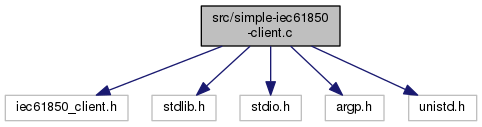
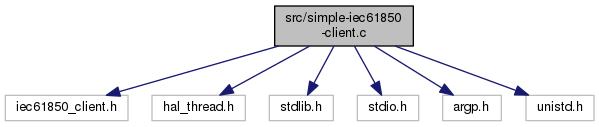
Edit outputs from client and server

diff --git a/simple-iec61850-client/doc/html/simple-iec61850-client_8c.html b/simple-iec61850-client/doc/html/simple-iec61850-client_8c.html
@@ -91,9 +91,10 @@ var searchBox = new SearchBox("searchBox", "search",false,'Search');
 </div><!--header-->
 <div class="contents">
 
-<p>C-File implements a simple IEC 61850 client.  
+<p>Test Class.  
 <a href="#details">More...</a></p>
 <div class="textblock"><code>#include &quot;iec61850_client.h&quot;</code><br />
+<code>#include &quot;hal_thread.h&quot;</code><br />
 <code>#include &lt;stdlib.h&gt;</code><br />
 <code>#include &lt;stdio.h&gt;</code><br />
 <code>#include &quot;argp.h&quot;</code><br />
@@ -132,9 +133,9 @@ Variables</h2></td></tr>
 <tr class="separator:a7c0b25939579bd308b11966fb04288e0"><td class="memSeparator" colspan="2">&#160;</td></tr>
 </table>
 <a name="details" id="details"></a><h2 class="groupheader">Detailed Description</h2>
-<div class="textblock"><p>C-File implements a simple IEC 61850 client. </p>
+<div class="textblock"><p>Test Class. </p>
+<p>More Details to Test Class</p>
 <dl class="section author"><dt>Author</dt><dd>David Mittelstädt </dd></dl>
-<dl class="section date"><dt>Date</dt><dd>12 Aug 2017 This C-File implements a simple IEC 61850 client. The library libIEC61850 is used for implementing the protocol IEC 61850. Argp is used to parse the options and arguments from the command line. </dd></dl>
 <dl class="section see"><dt>See also</dt><dd><a href="https://github.com/dmittelstaedt/siprenz-protocols">https://github.com/dmittelstaedt/siprenz-protocols</a> </dd>
 <dd>
 <a href="http://libiec61850.com/libiec61850/">http://libiec61850.com/libiec61850/</a> </dd></dl>
@@ -166,8 +167,8 @@ Variables</h2></td></tr>
 <p>Main function. </p>
 <p>Details of the function. </p><dl class="params"><dt>Parameters</dt><dd>
   <table class="params">
-    <tr><td class="paramname">Number</td><td>of arguments </td></tr>
-    <tr><td class="paramname">Content</td><td>of the arguments </td></tr>
+    <tr><td class="paramname">argc</td><td>Number of arguments </td></tr>
+    <tr><td class="paramname">argv</td><td>Content of the arguments </td></tr>
   </table>
   </dd>
 </dl>
@@ -214,7 +215,15 @@ Variables</h2></td></tr>
 </div><div class="memdoc">
 
 <p>Function which parses the given options and arguments. </p>
-<p>Details of the function. </p>
+<p>Details of the function. </p><dl class="params"><dt>Parameters</dt><dd>
+  <table class="params">
+    <tr><td class="paramname">Key</td><td></td></tr>
+    <tr><td class="paramname">Value</td><td>of argument </td></tr>
+    <tr><td class="paramname">Struct</td><td></td></tr>
+  </table>
+  </dd>
+</dl>
+<dl class="section return"><dt>Returns</dt><dd>Return code of parsing the arguments </dd></dl>
 
 </div>
 </div>

diff --git a/simple-iec61850-client/doc/html/files.html b/simple-iec61850-client/doc/html/files.html
@@ -86,7 +86,7 @@ var searchBox = new SearchBox("searchBox", "search",false,'Search');
 <div class="textblock">Here is a list of all documented files with brief descriptions:</div><div class="directory">
 <div class="levels">[detail level <span onclick="javascript:toggleLevel(1);">1</span><span onclick="javascript:toggleLevel(2);">2</span>]</div><table class="directory">
 <tr id="row_0_" class="even"><td class="entry"><span style="width:0px;display:inline-block;">&#160;</span><span id="arr_0_" class="arrow" onclick="toggleFolder('0_')">&#9660;</span><span id="img_0_" class="iconfopen" onclick="toggleFolder('0_')">&#160;</span><a class="el" href="dir_68267d1309a1af8e8297ef4c3efbcdba.html" target="_self">src</a></td><td class="desc"></td></tr>
-<tr id="row_0_0_"><td class="entry"><span style="width:32px;display:inline-block;">&#160;</span><span class="icondoc"></span><a class="el" href="simple-iec61850-client_8c.html" target="_self">simple-iec61850-client.c</a></td><td class="desc">C-File implements a simple IEC 61850 client </td></tr>
+<tr id="row_0_0_"><td class="entry"><span style="width:32px;display:inline-block;">&#160;</span><span class="icondoc"></span><a class="el" href="simple-iec61850-client_8c.html" target="_self">simple-iec61850-client.c</a></td><td class="desc">Test Class </td></tr>
 </table>
 </div><!-- directory -->
 </div><!-- contents -->

diff --git a/simple-iec61850-client/doc/html/dir_68267d1309a1af8e8297ef4c3efbcdba.html b/simple-iec61850-client/doc/html/dir_68267d1309a1af8e8297ef4c3efbcdba.html
@@ -91,7 +91,7 @@ var searchBox = new SearchBox("searchBox", "search",false,'Search');
 <tr class="heading"><td colspan="2"><h2 class="groupheader"><a name="files"></a>
 Files</h2></td></tr>
 <tr class="memitem:simple-iec61850-client_8c"><td class="memItemLeft" align="right" valign="top">file &#160;</td><td class="memItemRight" valign="bottom"><a class="el" href="simple-iec61850-client_8c.html">simple-iec61850-client.c</a></td></tr>
-<tr class="memdesc:simple-iec61850-client_8c"><td class="mdescLeft">&#160;</td><td class="mdescRight">C-File implements a simple IEC 61850 client. <br /></td></tr>
+<tr class="memdesc:simple-iec61850-client_8c"><td class="mdescLeft">&#160;</td><td class="mdescRight">Test Class. <br /></td></tr>
 <tr class="separator:"><td class="memSeparator" colspan="2">&#160;</td></tr>
 </table>
 </div><!-- contents -->

diff --git a/simple-iec61850-client/src/simple-iec61850-client.c b/simple-iec61850-client/src/simple-iec61850-client.c
@@ -1,17 +1,13 @@
 /**
+ * Test Class. More Details to Test Class
  * @file simple-iec61850-client.c
  * @author David Mittelstädt
- * @date 12 Aug 2017
- * @brief C-File implements a simple IEC 61850 client.
- *
- * This C-File implements a simple IEC 61850 client. The library libIEC61850
- * is used for implementing the protocol IEC 61850. Argp is used to parse
- * the options and arguments from the command line.
  * @see https://github.com/dmittelstaedt/siprenz-protocols
  * @see http://libiec61850.com/libiec61850/
  */
 
 #include "iec61850_client.h"
+#include "hal_thread.h"
 #include <stdlib.h>
 #include <stdio.h>
 #include "argp.h"
@@ -56,7 +52,8 @@ void runClient() {
      IedConnection_connect(con, &error, host, tcpPort);
 
      if (error == IED_ERROR_OK) {
-          printf("Client started successfully. Client is connected to %s on port %d.\n", host, tcpPort);
+          printf("Client connected successfully to %s on port %d.\n", host, tcpPort);
+          printf("Client starts reading total active power (TotW.mag) from %s.\n", host);
 
           int counter = 0;
 
@@ -65,16 +62,16 @@ void runClient() {
 
                // If an error occured during sending requests
                if (error != IED_ERROR_OK) {
-                    printf("An error occured.\n");
+                    printf("Lost connection to server %s.\n", host);
                     break;
                }
 
                if (value != NULL) {
                     float fval = MmsValue_toFloat(value);
-                    printf("Read power value: %.1f\n", fval);
+                    printf("TotW.mag: %.1f\n", fval);
                     MmsValue_delete(value);
                }
-               sleep(sleepInt);
+               Thread_sleep(sleepInt * 1000);
                counter++;
           }
 
@@ -92,6 +89,10 @@ void runClient() {
 /**
 * Function which parses the given options and arguments.
 * Details of the function.
+* @param Key
+* @param Value of argument
+* @param Struct
+* @return Return code of parsing the arguments
 */
 static int parse_opt (int key, char *arg, struct argp_state *state) {
      int *arg_count = state->input;
@@ -131,8 +132,8 @@ static int parse_opt (int key, char *arg, struct argp_state *state) {
 /**
 * Main function.
 * Details of the function.
-* @param Number of arguments
-* @param Content of the arguments
+* @param argc Number of arguments
+* @param argv Content of the arguments
 * @return Exit status of the application
 */
 int main(int argc, char** argv) {

diff --git a/simple-iec61850-client/doc/latex/simple-iec61850-client_8c.tex b/simple-iec61850-client/doc/latex/simple-iec61850-client_8c.tex
@@ -2,10 +2,11 @@
 \label{simple-iec61850-client_8c}\index{src/simple-\/iec61850-\/client.\+c@{src/simple-\/iec61850-\/client.\+c}}
 
 
-C-\/\+File implements a simple I\+EC 61850 client.  
+Test Class.  
 
 
 {\ttfamily \#include \char`\"{}iec61850\+\_\+client.\+h\char`\"{}}\\*
+{\ttfamily \#include \char`\"{}hal\+\_\+thread.\+h\char`\"{}}\\*
 {\ttfamily \#include $<$stdlib.\+h$>$}\\*
 {\ttfamily \#include $<$stdio.\+h$>$}\\*
 {\ttfamily \#include \char`\"{}argp.\+h\char`\"{}}\\*
@@ -40,14 +41,13 @@ int \hyperlink{simple-iec61850-client_8c_a7c0b25939579bd308b11966fb04288e0}{slee
 
 
 \subsection{Detailed Description}
-C-\/\+File implements a simple I\+EC 61850 client. 
+Test Class. 
+
+More Details to Test Class
 
 \begin{DoxyAuthor}{Author}
 David Mittelstädt 
 \end{DoxyAuthor}
-\begin{DoxyDate}{Date}
-12 Aug 2017 This C-\/\+File implements a simple I\+EC 61850 client. The library lib\+I\+E\+C61850 is used for implementing the protocol I\+EC 61850. Argp is used to parse the options and arguments from the command line. 
-\end{DoxyDate}
 \begin{DoxySeeAlso}{See also}
 \href{https://github.com/dmittelstaedt/siprenz-protocols}{\tt https\+://github.\+com/dmittelstaedt/siprenz-\/protocols} 
 
@@ -70,9 +70,9 @@ Main function.
 
 Details of the function. 
 \begin{DoxyParams}{Parameters}
-{\em Number} & of arguments \\
+{\em argc} & Number of arguments \\
 \hline
-{\em Content} & of the arguments \\
+{\em argv} & Content of the arguments \\
 \hline
 \end{DoxyParams}
 \begin{DoxyReturn}{Returns}
@@ -91,7 +91,19 @@ Exit status of the application
 
 Function which parses the given options and arguments. 
 
-Details of the function. \index{simple-\/iec61850-\/client.\+c@{simple-\/iec61850-\/client.\+c}!run\+Client@{run\+Client}}
+Details of the function. 
+\begin{DoxyParams}{Parameters}
+{\em Key} & \\
+\hline
+{\em Value} & of argument \\
+\hline
+{\em Struct} & \\
+\hline
+\end{DoxyParams}
+\begin{DoxyReturn}{Returns}
+Return code of parsing the arguments 
+\end{DoxyReturn}
+\index{simple-\/iec61850-\/client.\+c@{simple-\/iec61850-\/client.\+c}!run\+Client@{run\+Client}}
 \index{run\+Client@{run\+Client}!simple-\/iec61850-\/client.\+c@{simple-\/iec61850-\/client.\+c}}
 \subsubsection[{\texorpdfstring{run\+Client()}{runClient()}}]{\setlength{\rightskip}{0pt plus 5cm}void run\+Client (
 \begin{DoxyParamCaption}

diff --git a/simple-iec61850-server/src/simple-iec61850-server.c b/simple-iec61850-server/src/simple-iec61850-server.c
@@ -1,3 +1,16 @@
+/**
+ * @file simple-iec61850-client.c
+ * @author David Mittelstädt
+ * @date 12 Aug 2017
+ * @brief C-File implements a simple IEC 61850 client. Increases TotW of MMXU1
+ *
+ * This C-File implements a simple IEC 61850 client. The library libIEC61850
+ * is used for implementing the protocol IEC 61850. Argp is used to parse
+ * the options and arguments from the command line.
+ * @see https://github.com/dmittelstaedt/siprenz-protocols
+ * @see http://libiec61850.com/libiec61850/
+ */
+
 #include "iec61850_server.h"
 #include "hal_thread.h"
 #include <signal.h>
@@ -33,7 +46,7 @@ void runServer() {
           exit(-1);
      } else {
           printf("Server started successfully on port %d.\n", tcpPort);
-          printf("Power at start: %.1f\n", power);
+          printf("Total active power (TotW.mag) at start: %.1f\n", power);
           if (isVerbose == 1) {
                printf("Running in verbose mode.\n");
           }
@@ -53,7 +66,7 @@ void runServer() {
           IedServer_unlockDataModel(iedServer);
 
           if (isVerbose == 1) {
-               printf("Setting power to: %.1f\n", power);
+               printf("Setting TotW.mag to: %.1f\n", power);
           }
 
           power += 0.1f;

diff --git a/simple-iec61850-client/doc/latex/files.tex b/simple-iec61850-client/doc/latex/files.tex
@@ -1,4 +1,4 @@
 \section{File List}
 Here is a list of all documented files with brief descriptions\+:\begin{DoxyCompactList}
-\item\contentsline{section}{src/\hyperlink{simple-iec61850-client_8c}{simple-\/iec61850-\/client.\+c} \\*C-\/\+File implements a simple I\+EC 61850 client }{\pageref{simple-iec61850-client_8c}}{}
+\item\contentsline{section}{src/\hyperlink{simple-iec61850-client_8c}{simple-\/iec61850-\/client.\+c} \\*Test Class }{\pageref{simple-iec61850-client_8c}}{}
 \end{DoxyCompactList}

diff --git a/simple-iec61850-client/doc/latex/dir_68267d1309a1af8e8297ef4c3efbcdba.tex b/simple-iec61850-client/doc/latex/dir_68267d1309a1af8e8297ef4c3efbcdba.tex
@@ -4,4 +4,4 @@
 \begin{DoxyCompactItemize}
 \item 
 file \hyperlink{simple-iec61850-client_8c}{simple-\/iec61850-\/client.\+c}
-\begin{DoxyCompactList}\small\item\em C-\/\+File implements a simple I\+EC 61850 client. \end{DoxyCompactList}\end{DoxyCompactItemize}
+\begin{DoxyCompactList}\small\item\em Test Class. \end{DoxyCompactList}\end{DoxyCompactItemize}
